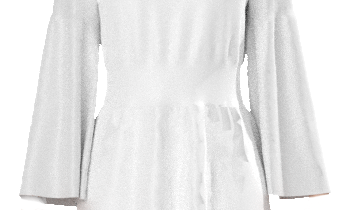
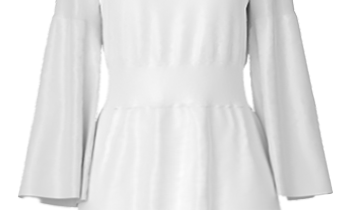
beta 0.01 - Удалил меню, на её месте теперь будут гифки(пока одна). За место отдельно страницы теперь высплывающие окошко

diff --git a/blocks/dresses/dresses.css b/blocks/dresses/dresses.css
@@ -2,16 +2,16 @@
     max-width: 310px;
     flex-shrink: 0;
 
-    border-radius: 25px;
-    background: #D9D9D9;
     margin: 0 auto;
     padding: 0;
 
-    display: grid;
+    display: flex;
+    position: relative;
+   /* display: grid;
     position: relative;
     grid-template-columns: 1fr 1fr 1fr;
     grid-template-rows: 150px 150px 150px;
-    gap: 5px;
+    gap: 5px;*/
 
     
 }

diff --git a/blocks/model/model.css b/blocks/model/model.css
@@ -1,7 +1,9 @@
 .model{
-    width: 350px;
-    height: 100%;
+    width: 250px;
+    height: 600px;
 
+    background-color: #F2F2F2;
+    border-radius: 25px;
     margin: 0 auto;
     padding: 0;
     
@@ -9,4 +11,5 @@
     position: relative;
     flex-direction: column;
     justify-content: center;
+    overflow: hidden;
 }

diff --git a/blocks/dresses/dress.css b/blocks/dresses/dress.css
@@ -1,11 +1,11 @@
 .dress{
-    width: 100%;
-    height: 100%;
+    width: 170px;
+    height: 250px;
     
-    margin: 0;
+    margin: 50px auto;
     padding: 0; 
 
-    background-image: url("../../image/model-0.png");
+    background-image: url("../../image/dress.gif");
     background-size: cover;
 
     display: flex;

diff --git a/blocks/model/girl.css b/blocks/model/girl.css
@@ -3,7 +3,7 @@
     min-width: 175px;
     min-height: 500px;
 
-    background-image: url("../../image/model-0.png");
+    background-image: url("../../image/model-0.jpg");
     background-size: contain;
     background-repeat: no-repeat;
 

diff --git a/scripts/script.js b/scripts/script.js
@@ -9,6 +9,6 @@ Button.addEventListener('click', () => {
 });
 
 new Swiper('.swiper-container', {
-    spaceBetween: 36,
+    spaceBetween: 0,
     initialSlide: 1,
 });
